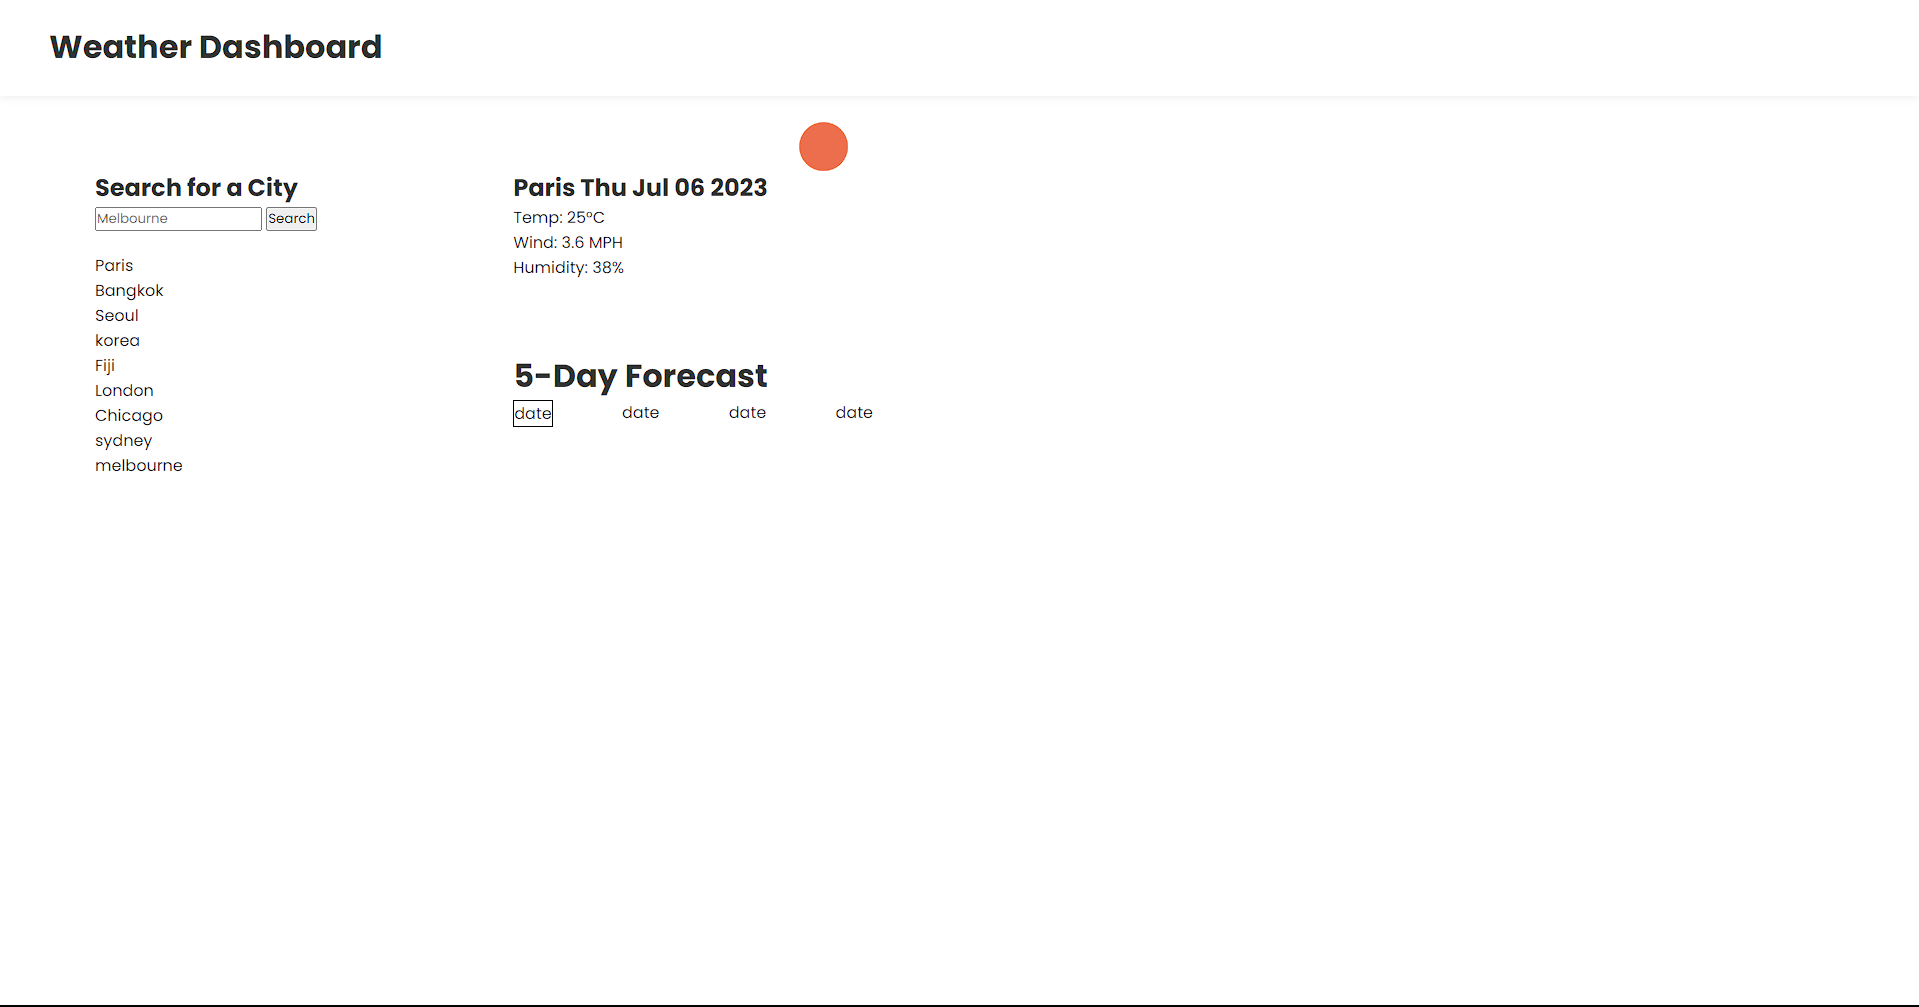
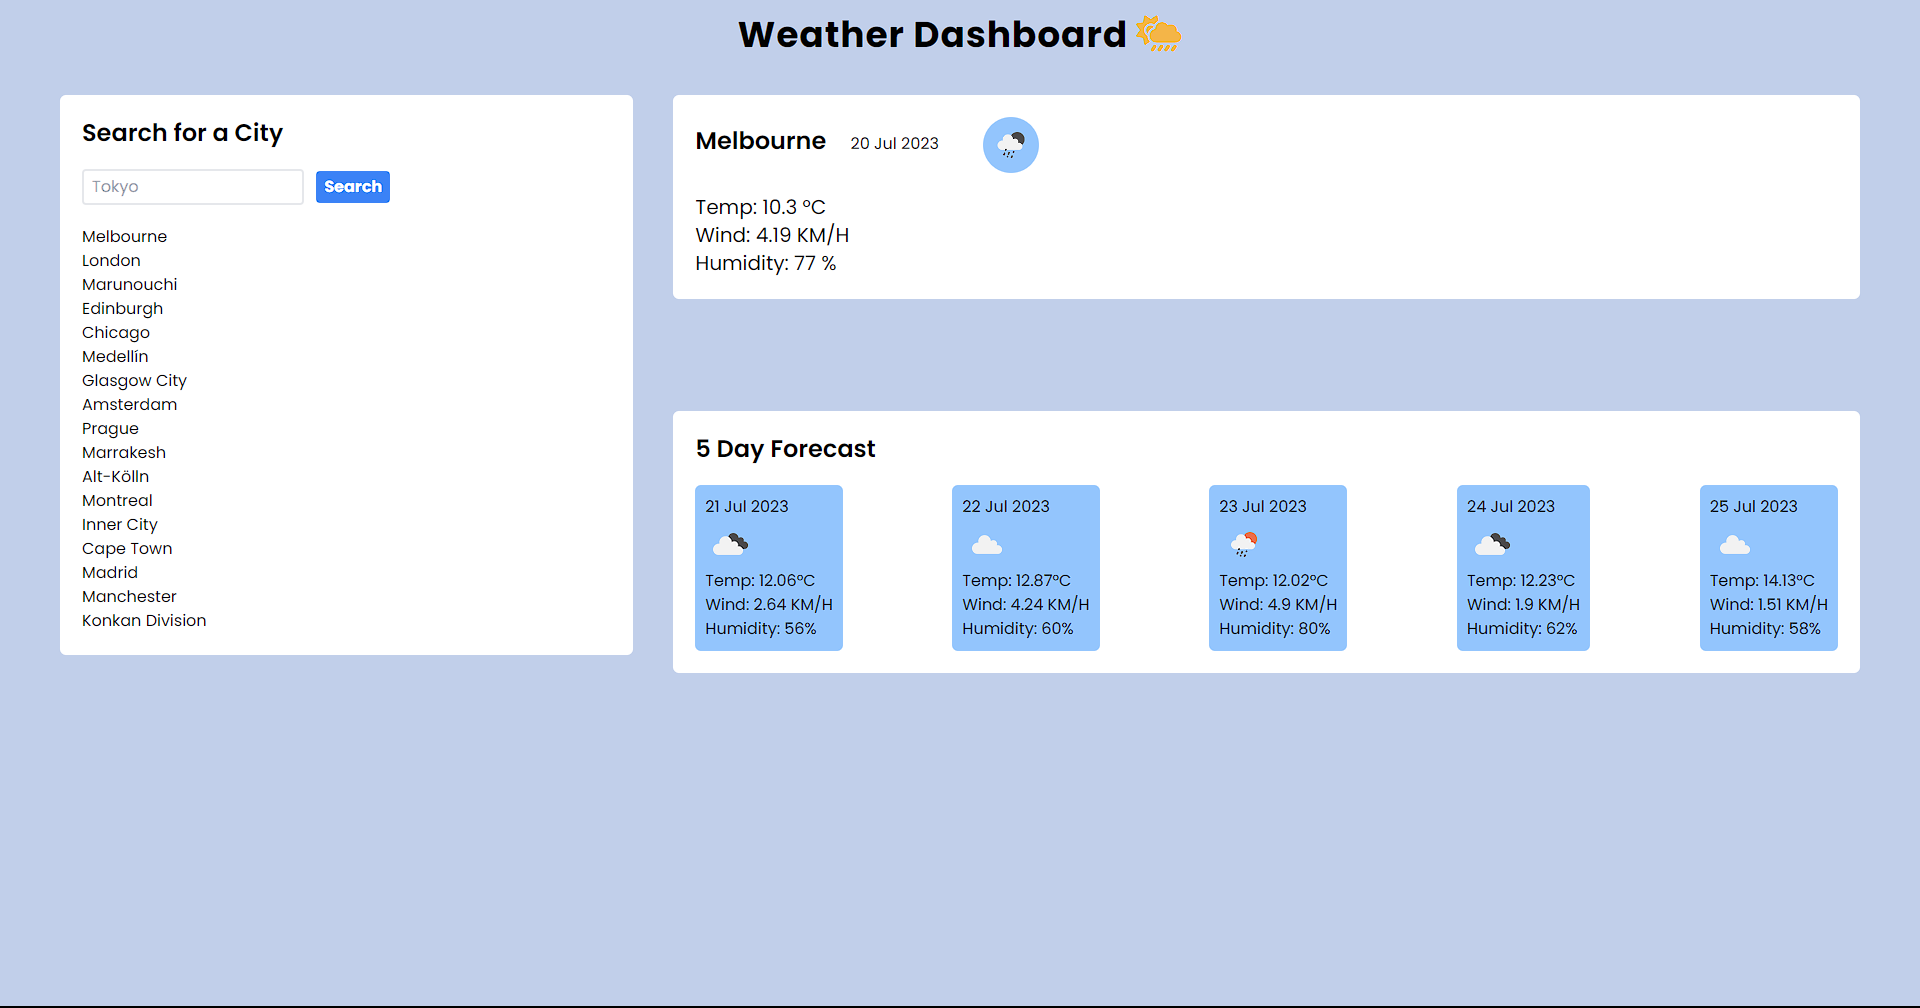
Update tailwind css and change image

diff --git a/js/script.js b/js/script.js
@@ -121,27 +121,28 @@ function displayForecast(forecastData) {
 
   forecastData.forEach((forecast) => {
     const forecastItem = document.createElement("div");
-    forecastItem.className = "forecast-item list-none bg-white";
+    forecastItem.className =
+      "forecast-item list-none bg-blue-300 border-2 border-blue-300 p-2 rounded-md";
 
     const forecastDate = document.createElement("li");
-    forecastDate.className = "bg-white";
+    forecastDate.className = "bg-blue-300";
     const date = dayjs(forecast.date).format("DD MMM YYYY");
     forecastDate.textContent = date;
 
     const forecastTemp = document.createElement("li");
-    forecastTemp.className = "bg-white";
+    forecastTemp.className = "bg-blue-300";
     forecastTemp.textContent = `Temp: ${forecast.temperature}°C`;
 
     const forecastWind = document.createElement("li");
-    forecastWind.className = "bg-white";
+    forecastWind.className = "bg-blue-300";
     forecastWind.textContent = `Wind: ${forecast.windSpeed} KM/H`;
 
     const forecastHumidity = document.createElement("li");
-    forecastHumidity.className = "bg-white";
+    forecastHumidity.className = "bg-blue-300";
     forecastHumidity.textContent = `Humidity: ${forecast.humidity}%`;
 
     const forecastIcon = document.createElement("img");
-    forecastIcon.className = "bg-white";
+    forecastIcon.className = "bg-blue-300";
     forecastIcon.src = `https://openweathermap.org/img/wn/${forecast.weatherIcon}.png`;
     forecastIcon.alt = "Forecast Icon";
 

diff --git a/index.html b/index.html
@@ -39,7 +39,7 @@
                 <h1 class="text-2xl font-semibold bg-white inline" id="city-name">Melbourne</h1>
                 <h1 class="inline bg-white ml-5" id="mainDate"></h1>
                 <img src="https://openweathermap.org/img/wn/02d@2x.png" alt="Weather Icon"
-                    class="inline ml-10 object-scale-down h-14 w-14 border-2 border-blue-500 bg-blue-500 rounded-full"
+                    class="inline ml-10 object-scale-down h-14 w-14 border-2 border-blue-300 bg-blue-300 rounded-full"
                     id="weatherIcon">
                 <div class="mt-5 text-xl">
                     <h1 class="bg-white">Temp: <span class="bg-white" id="temp"></span> °C</h1>
